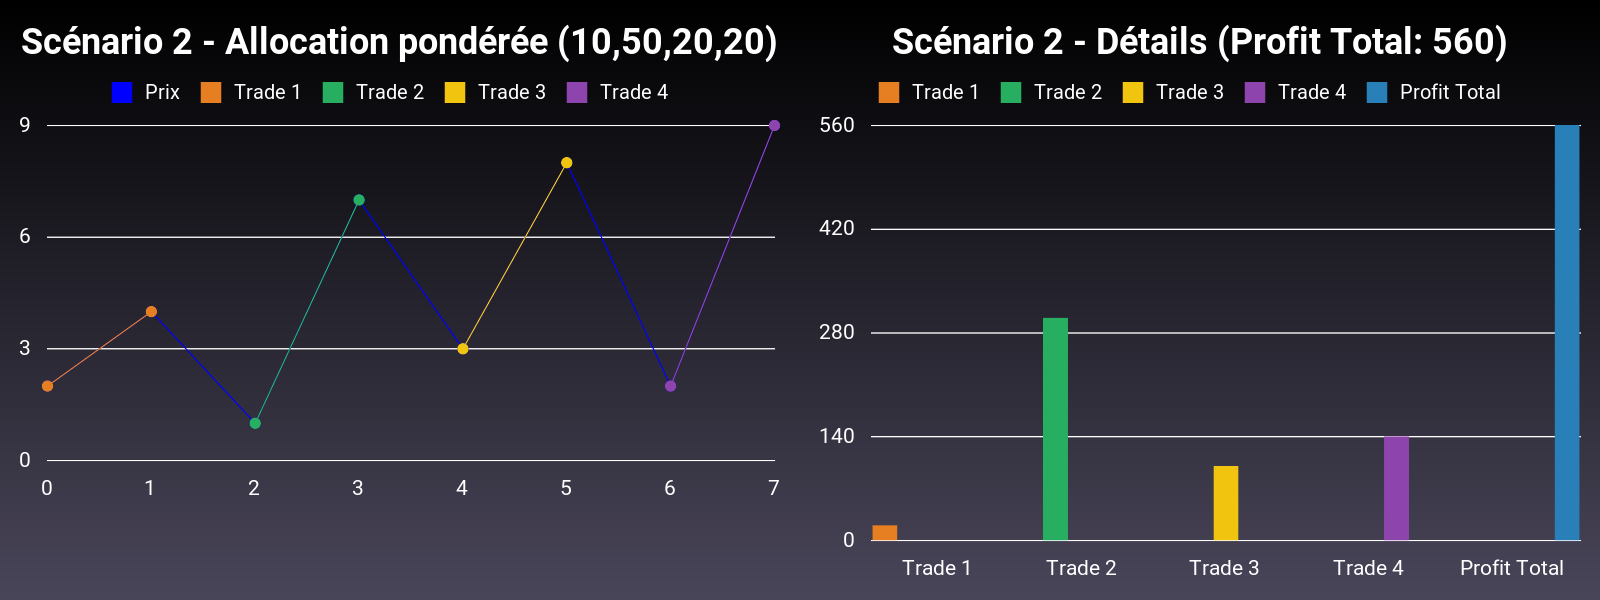
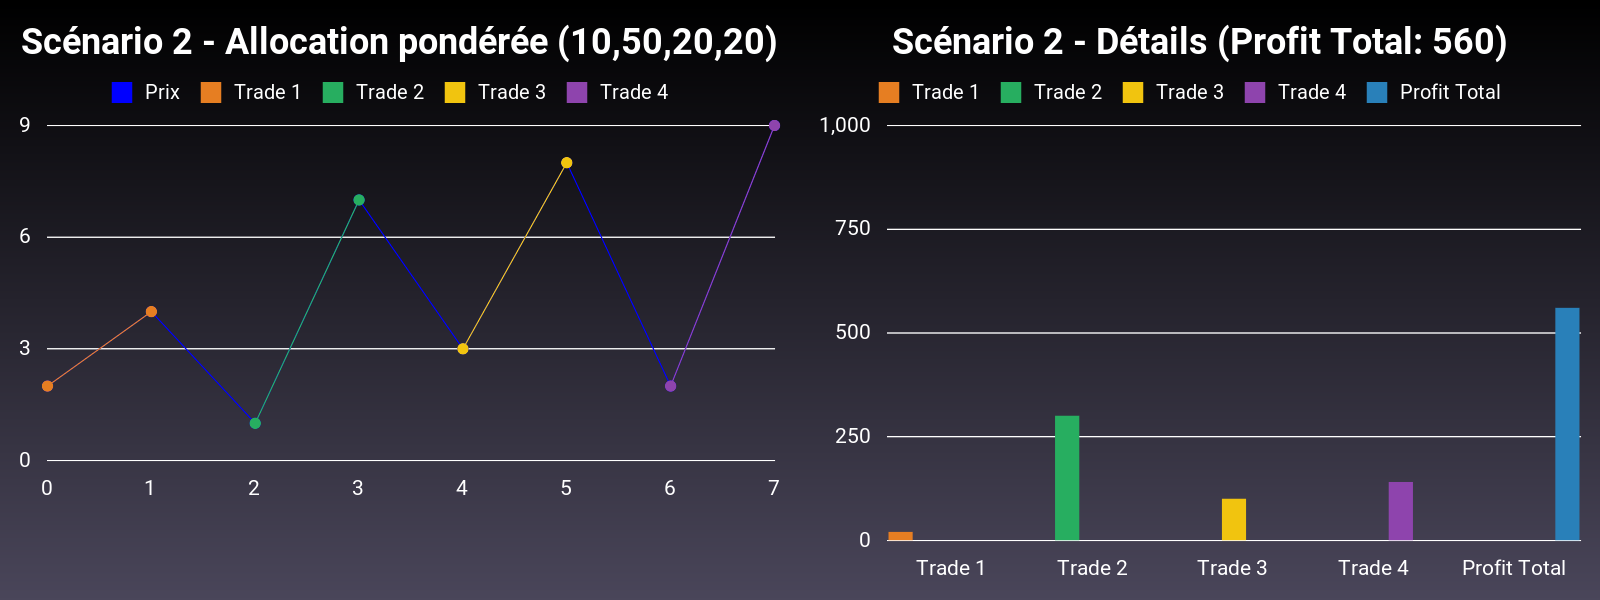
BONUS: Fix some ui

diff --git a/simulation_complexe_chart.rb b/simulation_complexe_chart.rb
@@ -131,21 +131,31 @@ def generate_bar_chart(scenario_name, data, trades, trade_colors, best_trade_col
   g = Gruff::Bar.new('800x600')
   g.title = "#{scenario_name} - Détails (Profit Total: #{data[:profit]})"
   
+  # Définir l'échelle de l'axe Y de 0 à 1000
+  g.minimum_value = 0
+  g.maximum_value = 1000
+  
   if scenario_name != "Scénario 4"
     labels = {}
     trade_values = []
     trade_colors_array = []
     
-    # D'abord les trades individuels
-    data[:volumes].each_with_index do |(trade_name, volume), idx|
-      labels[idx] = trade_name
-      trade = trades.find { |t| t[:name] == trade_name }
-      trade_values << trade[:profit] * volume
-      trade_colors_array << trade_colors[trade_name]
+    # D'abord les trades individuels (uniquement ceux avec un volume > 0)
+    current_idx = 0
+    trade_number = 1
+    data[:volumes].each do |trade_name, volume|
+      if volume > 0
+        labels[current_idx] = "Trade #{trade_number}"  # Renumérotation séquentielle
+        trade = trades.find { |t| t[:name] == trade_name }
+        trade_values << trade[:profit] * volume
+        trade_colors_array << trade_colors[trade_name]
+        current_idx += 1
+        trade_number += 1
+      end
     end
     
     # Ajouter le profit total à la fin
-    labels[trade_values.size] = "Profit Total"
+    labels[current_idx] = "Profit Total"
     trade_values << data[:profit]
     trade_colors_array << "#2980B9"  # Bleu pour le profit total
     
